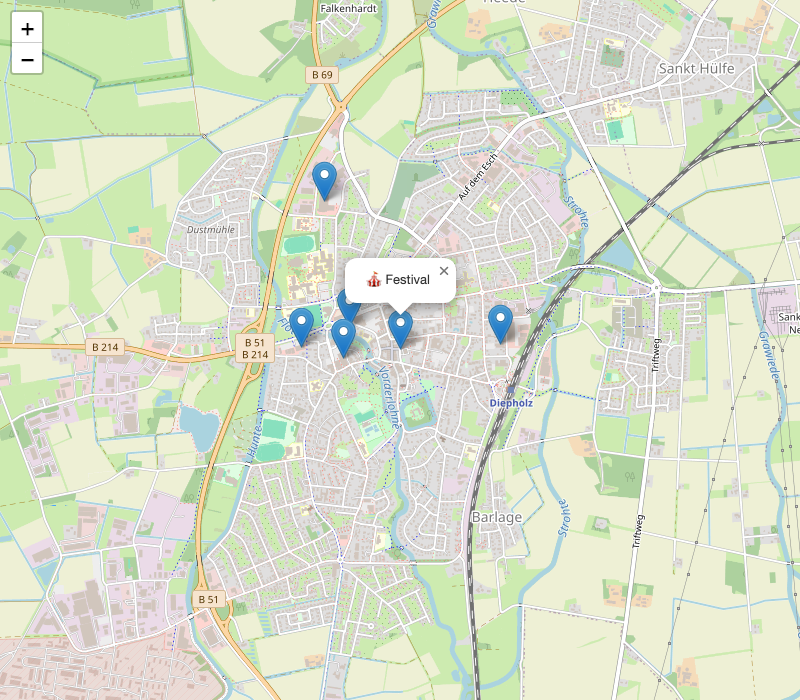
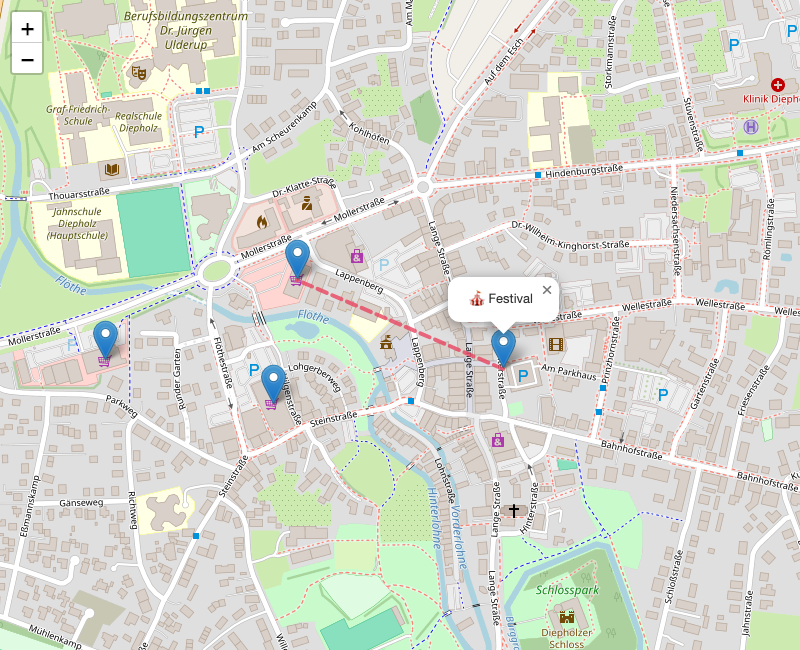
Zoom supermarket map to nearest (ALDI), add route line, show 3 closest

diff --git a/scripts/screenshot-map.js b/scripts/screenshot-map.js
@@ -1,39 +1,43 @@
-// Take a screenshot of a supermarket map for offline use
+// Take a screenshot of the nearest supermarket for offline use
 // Run: node scripts/screenshot-map.js
 
 const { chromium } = require('playwright');
 
-const FESTIVAL = { lat: 52.607, lon: 8.371 };
+const FESTIVAL = { lat: 52.607, lon: 8.371, name: 'Festival' };
 
+// nearest supermarkets, sorted by proximity
 const MARKETS = [
-  { name: 'ALDI', lat: 52.60815, lon: 8.36658 },
-  { name: 'Combi', lat: 52.60653, lon: 8.36606 },
-  { name: 'Lidl', lat: 52.60710, lon: 8.36246 },
-  { name: 'E-Center', lat: 52.61471, lon: 8.36443 },
-  { name: 'Netto', lat: 52.60728, lon: 8.37954 },
+  { name: 'ALDI', lat: 52.60815, lon: 8.36658, addr: 'Mollerstraße 20' },
+  { name: 'Combi', lat: 52.60653, lon: 8.36606, addr: 'Flöthestraße 43' },
+  { name: 'Lidl', lat: 52.60710, lon: 8.36246, addr: 'Carl-Schwarze-Straße 1' },
 ];
+
+// center between festival and closest market (ALDI)
+const CENTER = {
+  lat: (FESTIVAL.lat + MARKETS[0].lat) / 2,
+  lon: (FESTIVAL.lon + MARKETS[0].lon) / 2,
+};
 
 async function run() {
   const browser = await chromium.launch({ headless: true });
-  const page = await browser.newPage({ viewport: { width: 800, height: 700 } });
+  const page = await browser.newPage({ viewport: { width: 800, height: 650 } });
 
-  // Build a simple HTML page with Leaflet map + markers
   const html = `<!DOCTYPE html>
 <html><head>
 <meta charset="utf-8">
 <link rel="stylesheet" href="https://unpkg.com/leaflet@1.9/dist/leaflet.css" />
-<style>body{margin:0}#map{width:800px;height:700px}</style>
+<style>body{margin:0}#map{width:800px;height:650px}</style>
 </head><body>
 <div id="map"></div>
 <script src="https://unpkg.com/leaflet@1.9/dist/leaflet.js"></script>
 <script>
 const map = L.map('map', { zoomControl: true, attributionControl: false })
-  .setView([${FESTIVAL.lat}, ${FESTIVAL.lon}], 14);
+  .setView([${CENTER.lat}, ${CENTER.lon}], 16);
 L.tileLayer('https://tile.openstreetmap.org/{z}/{x}/{y}.png', {
   maxZoom: 18
 }).addTo(map);
 
-// festival marker (star)
+// festival marker
 L.marker([${FESTIVAL.lat}, ${FESTIVAL.lon}])
   .bindPopup('🎪 Festival')
   .addTo(map)
@@ -43,16 +47,25 @@ L.marker([${FESTIVAL.lat}, ${FESTIVAL.lon}])
 const markets = ${JSON.stringify(MARKETS)};
 markets.forEach(m => {
   L.marker([m.lat, m.lon])
-    .bindPopup('🛒 ' + m.name)
+    .bindPopup('🛒 ' + m.name + '<br>' + m.addr)
     .addTo(map);
 });
+
+// route line from festival to nearest supermarket (ALDI)
+L.polyline([
+  [${FESTIVAL.lat}, ${FESTIVAL.lon}],
+  [${MARKETS[0].lat}, ${MARKETS[0].lon}]
+], {
+  color: '#e94560', weight: 4, opacity: 0.8,
+  dashArray: '10 6'
+}).addTo(map);
 <\/script>
 </body></html>`;
 
   await page.setContent(html);
-  await page.waitForTimeout(2000); // let tiles load
+  await page.waitForTimeout(2500);
   await page.screenshot({ path: 'appletree-2026/assets/supermarket-map.png' });
-  console.log('✓ Saved appletree-2026/assets/supermarket-map.png');
+  console.log('✓ Saved appletree-2026/assets/supermarket-map.png (zoomed to nearest)');
   await browser.close();
 }
 

diff --git a/index.html b/index.html
@@ -818,7 +818,7 @@
           '<a href="https://maps.google.com/?q=supermarket+Diepholz" target="_blank">' +
             '<img class="supermarket-map" src="appletree-2026/assets/supermarket-map.png" alt="Supermarkets near Diepholz">' +
           '</a>' +
-          '<p class="supermarket-note">🎪 Festival &nbsp;|&nbsp; 🛒 ALDI, Combi, Lidl, E-Center, Netto — all ~5 min by car</p>' +
+          '<p class="supermarket-note">🎪 Festival &nbsp;|&nbsp; 🛒 ALDI (2 min), Combi, Lidl — dashed line shows walking route to nearest</p>' +
           '<p class="supermarket-note">Tap map to open directions in Google Maps</p>' +
         '</div>';
     }
